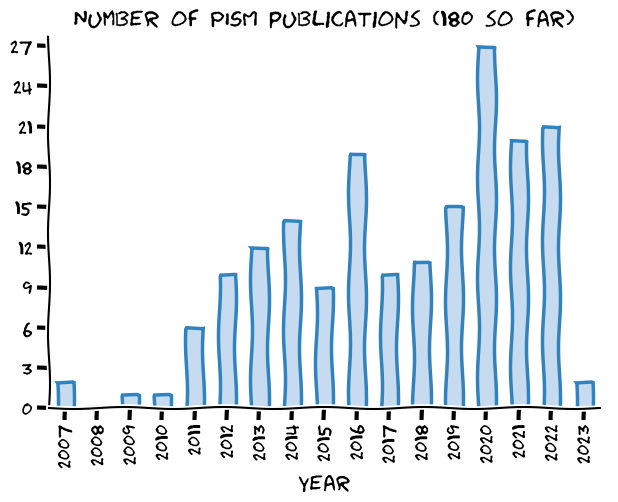
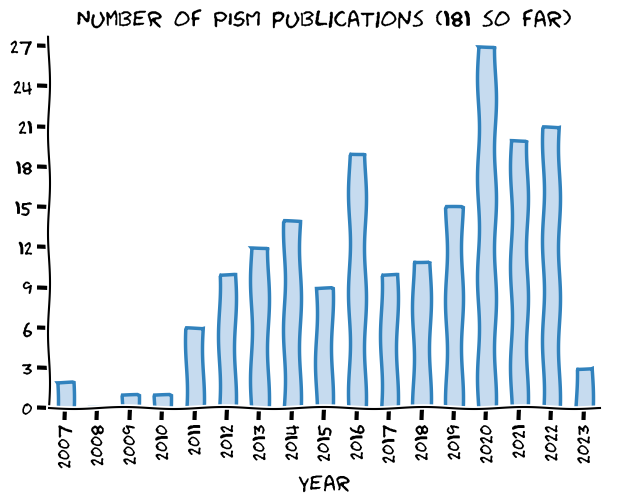
[skip ci] Update the website

Changed region(s): [[0.123, 0.0, 0.9531, 0.0598], [0.9223, 0.7171, 0.9838, 0.8068]]

diff --git a/publications/submitted/index.html b/publications/submitted/index.html
@@ -292,7 +292,6 @@ window.onscroll = function() {
 
 <ol>
   <li>J. Contzen, T. Dickhaus, and G. Lohmann. Long-term temporal evolution of extreme temperature in a warming earth. arxiv preprint, 2022. URL: <a href="https://arxiv.org/abs/2207.13512">https://arxiv.org/abs/2207.13512</a>.</li>
-  <li>J. Feldmann and A. Levermann. Timescales of outlet-glacier flow with negligible basal friction: theory, observations and modeling. <em>The Cryosphere Discussions</em>, 2022:1–35, 2022. URL: <a href="https://tc.copernicus.org/preprints/tc-2022-141/">https://tc.copernicus.org/preprints/tc-2022-141/</a>, <a href="https://doi.org/10.5194/tc-2022-141">doi:10.5194/tc-2022-141</a>.</li>
   <li>A. Løkkegaard, K. Mankoff, C. Zdanowicz, G. D. Clow, M. P. Lüthi, S. Doyle, H. Thomsen, D. Fisher, J. Harper, A. Aschwanden, B. M. Vinther, D. Dahl-Jensen, H. Zekollari, T. Meierbachtol, I. McDowell, N. Humphrey, A. Solgaard, N. B. Karlsson, S. A. Khan, B. Hills, R. Law, B. Hubbard, P. Christoffersen, M. Jacquemart, R. S. Fausto, and W. T. Colgan. Greenland and canadian arctic ice temperature profiles. <em>The Cryosphere Discussions</em>, 2022:1–24, 2022. URL: <a href="https://tc.copernicus.org/preprints/tc-2022-138/">https://tc.copernicus.org/preprints/tc-2022-138/</a>, <a href="https://doi.org/10.5194/tc-2022-138">doi:10.5194/tc-2022-138</a>.</li>
   <li>R. Reese, J. Garbe, E. A. Hill, B. Urruty, K. A. Naughten, O. Gagliardini, G. Durand, F. Gillet-Chaulet, D. Chandler, P. M. Langebroek, and R. Winkelmann. The stability of present-day Antarctic grounding lines – Part B: Possible commitment of regional collapse under current climate. <em>The Cryosphere Discussions</em>, 2022:1–33, 2022. URL: <a href="https://tc.copernicus.org/preprints/tc-2022-105/">https://tc.copernicus.org/preprints/tc-2022-105/</a>, <a href="https://doi.org/10.5194/tc-2022-105">doi:10.5194/tc-2022-105</a>.</li>
   <li>B. Urruty, E. A. Hill, R. Reese, J. Garbe, O. Gagliardini, G. Durand, F. Gillet-Chaulet, G. H. Gudmundsson, R. Winkelmann, M. Chekki, D. Chandler, and P. M. Langebroek. The stability of present-day Antarctic grounding lines – Part A: No indication of marine ice sheet instability in the current geometry. <em>The Cryosphere Discussions</em>, 2022:1–34, 2022. URL: <a href="https://tc.copernicus.org/preprints/tc-2022-104/">https://tc.copernicus.org/preprints/tc-2022-104/</a>, <a href="https://doi.org/10.5194/tc-2022-104">doi:10.5194/tc-2022-104</a>.</li>

diff --git a/publications/index.html b/publications/index.html
@@ -289,6 +289,7 @@ window.onscroll = function() {
 <h3 id="2023">2023</h3>
 
 <ol>
+  <li>J. Feldmann and A. Levermann. Timescales of outlet-glacier flow with negligible basal friction: theory, observations and modeling. <em>The Cryosphere</em>, 17(1):327–348, 2023. URL: <a href="https://tc.copernicus.org/articles/17/327/2023/">https://tc.copernicus.org/articles/17/327/2023/</a>, <a href="https://doi.org/10.5194/tc-17-327-2023">doi:10.5194/tc-17-327-2023</a>.</li>
   <li>Evan J. Gowan, Sebastian Hinck, Lu Niu, Caroline Clason, and Gerrit Lohmann. The impact of spatially varying ice sheet basal conditions on sliding at glacial time scales. <em>Journal of Glaciology</em>, pages 1–15, 2023. <a href="https://doi.org/10.1017/jog.2022.125">doi:10.1017/jog.2022.125</a>.</li>
   <li>Qing Yan, Ting Wei, and Zhongshi Zhang. Modeling the timing and extent of glaciations over southeastern Tibet during the last glacial stage. <em>Palaeogeography, Palaeoclimatology, Palaeoecology</em>, 610:111336, 2023. <a href="https://doi.org/10.1016/j.palaeo.2022.111336">doi:10.1016/j.palaeo.2022.111336</a>.</li>
 </ol>

diff --git a/publications/submitted_papers.md b/publications/submitted_papers.md
@@ -5,10 +5,9 @@
 ### 2022
 
 1. J\. Contzen, T\. Dickhaus, and G\. Lohmann\. Long\-term temporal evolution of extreme temperature in a warming earth\. arxiv preprint, 2022\. URL: [https://arxiv\.org/abs/2207\.13512](https://arxiv.org/abs/2207.13512)\.   
-2. J\. Feldmann and A\. Levermann\. Timescales of outlet\-glacier flow with negligible basal friction: theory, observations and modeling\. *The Cryosphere Discussions*, 2022:1–35, 2022\. URL: [https://tc\.copernicus\.org/preprints/tc\-2022\-141/](https://tc.copernicus.org/preprints/tc-2022-141/), [doi:10\.5194/tc\-2022\-141](https://doi.org/10.5194/tc-2022-141)\.   
-3. A\. Løkkegaard, K\. Mankoff, C\. Zdanowicz, G\. D\. Clow, M\. P\. Lüthi, S\. Doyle, H\. Thomsen, D\. Fisher, J\. Harper, A\. Aschwanden, B\. M\. Vinther, D\. Dahl\-Jensen, H\. Zekollari, T\. Meierbachtol, I\. McDowell, N\. Humphrey, A\. Solgaard, N\. B\. Karlsson, S\. A\. Khan, B\. Hills, R\. Law, B\. Hubbard, P\. Christoffersen, M\. Jacquemart, R\. S\. Fausto, and W\. T\. Colgan\. Greenland and canadian arctic ice temperature profiles\. *The Cryosphere Discussions*, 2022:1–24, 2022\. URL: [https://tc\.copernicus\.org/preprints/tc\-2022\-138/](https://tc.copernicus.org/preprints/tc-2022-138/), [doi:10\.5194/tc\-2022\-138](https://doi.org/10.5194/tc-2022-138)\.   
-4. R\. Reese, J\. Garbe, E\. A\. Hill, B\. Urruty, K\. A\. Naughten, O\. Gagliardini, G\. Durand, F\. Gillet\-Chaulet, D\. Chandler, P\. M\. Langebroek, and R\. Winkelmann\. The stability of present\-day Antarctic grounding lines – Part B: Possible commitment of regional collapse under current climate\. *The Cryosphere Discussions*, 2022:1–33, 2022\. URL: [https://tc\.copernicus\.org/preprints/tc\-2022\-105/](https://tc.copernicus.org/preprints/tc-2022-105/), [doi:10\.5194/tc\-2022\-105](https://doi.org/10.5194/tc-2022-105)\.   
-5. B\. Urruty, E\. A\. Hill, R\. Reese, J\. Garbe, O\. Gagliardini, G\. Durand, F\. Gillet\-Chaulet, G\. H\. Gudmundsson, R\. Winkelmann, M\. Chekki, D\. Chandler, and P\. M\. Langebroek\. The stability of present\-day Antarctic grounding lines – Part A: No indication of marine ice sheet instability in the current geometry\. *The Cryosphere Discussions*, 2022:1–34, 2022\. URL: [https://tc\.copernicus\.org/preprints/tc\-2022\-104/](https://tc.copernicus.org/preprints/tc-2022-104/), [doi:10\.5194/tc\-2022\-104](https://doi.org/10.5194/tc-2022-104)\.   
+2. A\. Løkkegaard, K\. Mankoff, C\. Zdanowicz, G\. D\. Clow, M\. P\. Lüthi, S\. Doyle, H\. Thomsen, D\. Fisher, J\. Harper, A\. Aschwanden, B\. M\. Vinther, D\. Dahl\-Jensen, H\. Zekollari, T\. Meierbachtol, I\. McDowell, N\. Humphrey, A\. Solgaard, N\. B\. Karlsson, S\. A\. Khan, B\. Hills, R\. Law, B\. Hubbard, P\. Christoffersen, M\. Jacquemart, R\. S\. Fausto, and W\. T\. Colgan\. Greenland and canadian arctic ice temperature profiles\. *The Cryosphere Discussions*, 2022:1–24, 2022\. URL: [https://tc\.copernicus\.org/preprints/tc\-2022\-138/](https://tc.copernicus.org/preprints/tc-2022-138/), [doi:10\.5194/tc\-2022\-138](https://doi.org/10.5194/tc-2022-138)\.   
+3. R\. Reese, J\. Garbe, E\. A\. Hill, B\. Urruty, K\. A\. Naughten, O\. Gagliardini, G\. Durand, F\. Gillet\-Chaulet, D\. Chandler, P\. M\. Langebroek, and R\. Winkelmann\. The stability of present\-day Antarctic grounding lines – Part B: Possible commitment of regional collapse under current climate\. *The Cryosphere Discussions*, 2022:1–33, 2022\. URL: [https://tc\.copernicus\.org/preprints/tc\-2022\-105/](https://tc.copernicus.org/preprints/tc-2022-105/), [doi:10\.5194/tc\-2022\-105](https://doi.org/10.5194/tc-2022-105)\.   
+4. B\. Urruty, E\. A\. Hill, R\. Reese, J\. Garbe, O\. Gagliardini, G\. Durand, F\. Gillet\-Chaulet, G\. H\. Gudmundsson, R\. Winkelmann, M\. Chekki, D\. Chandler, and P\. M\. Langebroek\. The stability of present\-day Antarctic grounding lines – Part A: No indication of marine ice sheet instability in the current geometry\. *The Cryosphere Discussions*, 2022:1–34, 2022\. URL: [https://tc\.copernicus\.org/preprints/tc\-2022\-104/](https://tc.copernicus.org/preprints/tc-2022-104/), [doi:10\.5194/tc\-2022\-104](https://doi.org/10.5194/tc-2022-104)\.   
 
 ### 2021
 

diff --git a/publications/published.md b/publications/published.md
@@ -1,7 +1,8 @@
 ### 2023
 
-1. Evan J\. Gowan, Sebastian Hinck, Lu Niu, Caroline Clason, and Gerrit Lohmann\. The impact of spatially varying ice sheet basal conditions on sliding at glacial time scales\. *Journal of Glaciology*, pages 1–15, 2023\. [doi:10\.1017/jog\.2022\.125](https://doi.org/10.1017/jog.2022.125)\.   
-2. Qing Yan, Ting Wei, and Zhongshi Zhang\. Modeling the timing and extent of glaciations over southeastern Tibet during the last glacial stage\. *Palaeogeography, Palaeoclimatology, Palaeoecology*, 610:111336, 2023\. [doi:10\.1016/j\.palaeo\.2022\.111336](https://doi.org/10.1016/j.palaeo.2022.111336)\.   
+1. J\. Feldmann and A\. Levermann\. Timescales of outlet\-glacier flow with negligible basal friction: theory, observations and modeling\. *The Cryosphere*, 17\(1\):327–348, 2023\. URL: [https://tc\.copernicus\.org/articles/17/327/2023/](https://tc.copernicus.org/articles/17/327/2023/), [doi:10\.5194/tc\-17\-327\-2023](https://doi.org/10.5194/tc-17-327-2023)\.   
+2. Evan J\. Gowan, Sebastian Hinck, Lu Niu, Caroline Clason, and Gerrit Lohmann\. The impact of spatially varying ice sheet basal conditions on sliding at glacial time scales\. *Journal of Glaciology*, pages 1–15, 2023\. [doi:10\.1017/jog\.2022\.125](https://doi.org/10.1017/jog.2022.125)\.   
+3. Qing Yan, Ting Wei, and Zhongshi Zhang\. Modeling the timing and extent of glaciations over southeastern Tibet during the last glacial stage\. *Palaeogeography, Palaeoclimatology, Palaeoecology*, 610:111336, 2023\. [doi:10\.1016/j\.palaeo\.2022\.111336](https://doi.org/10.1016/j.palaeo.2022.111336)\.   
 
 ### 2022
 
